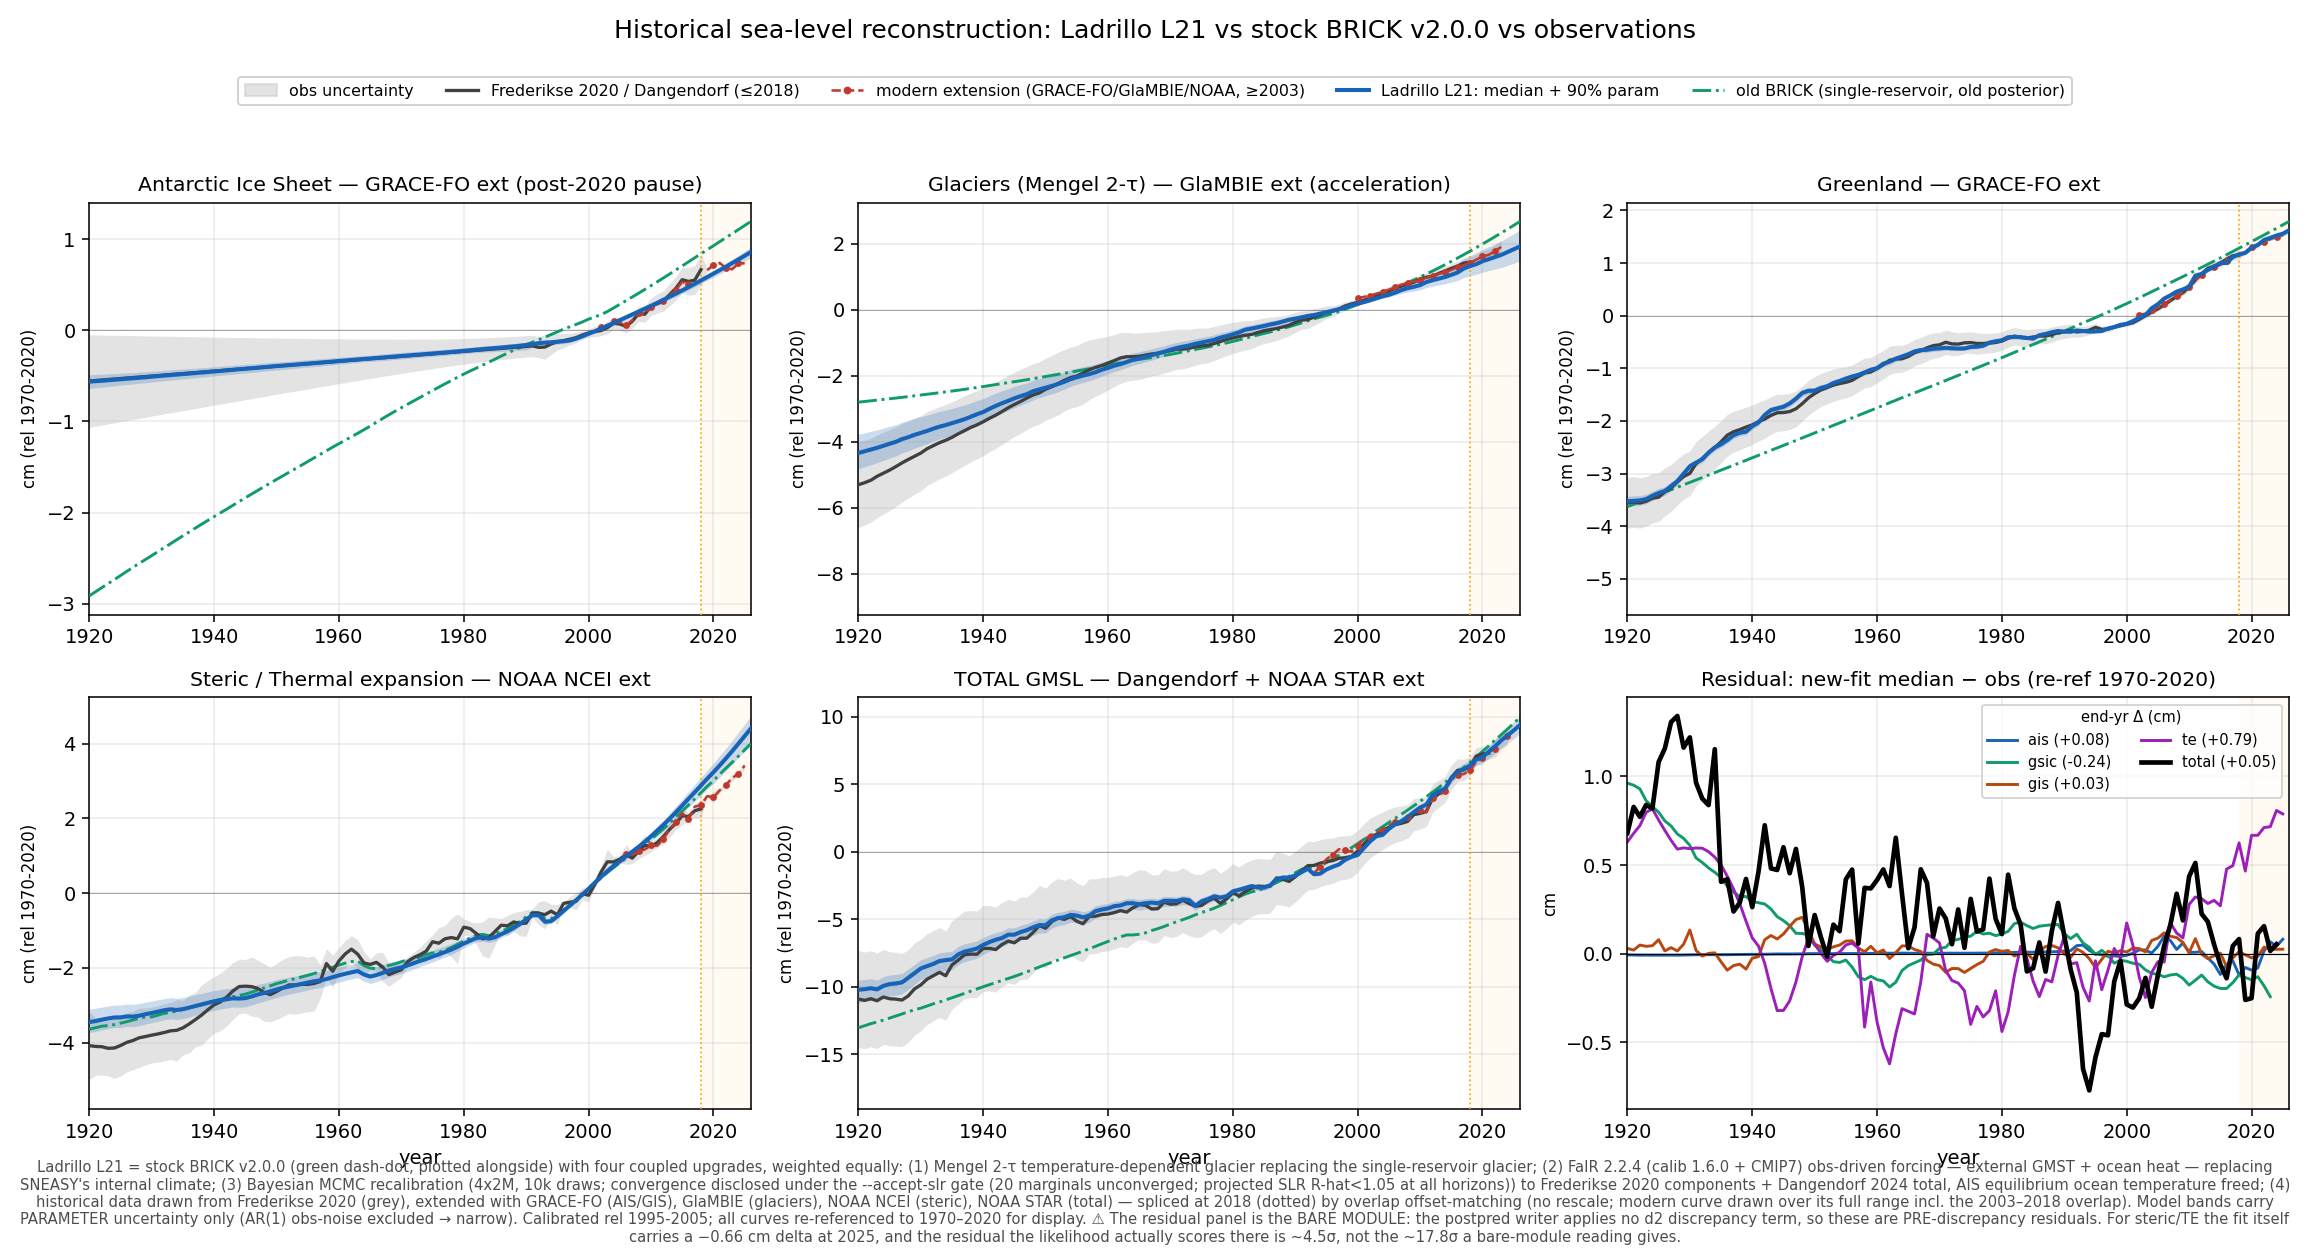
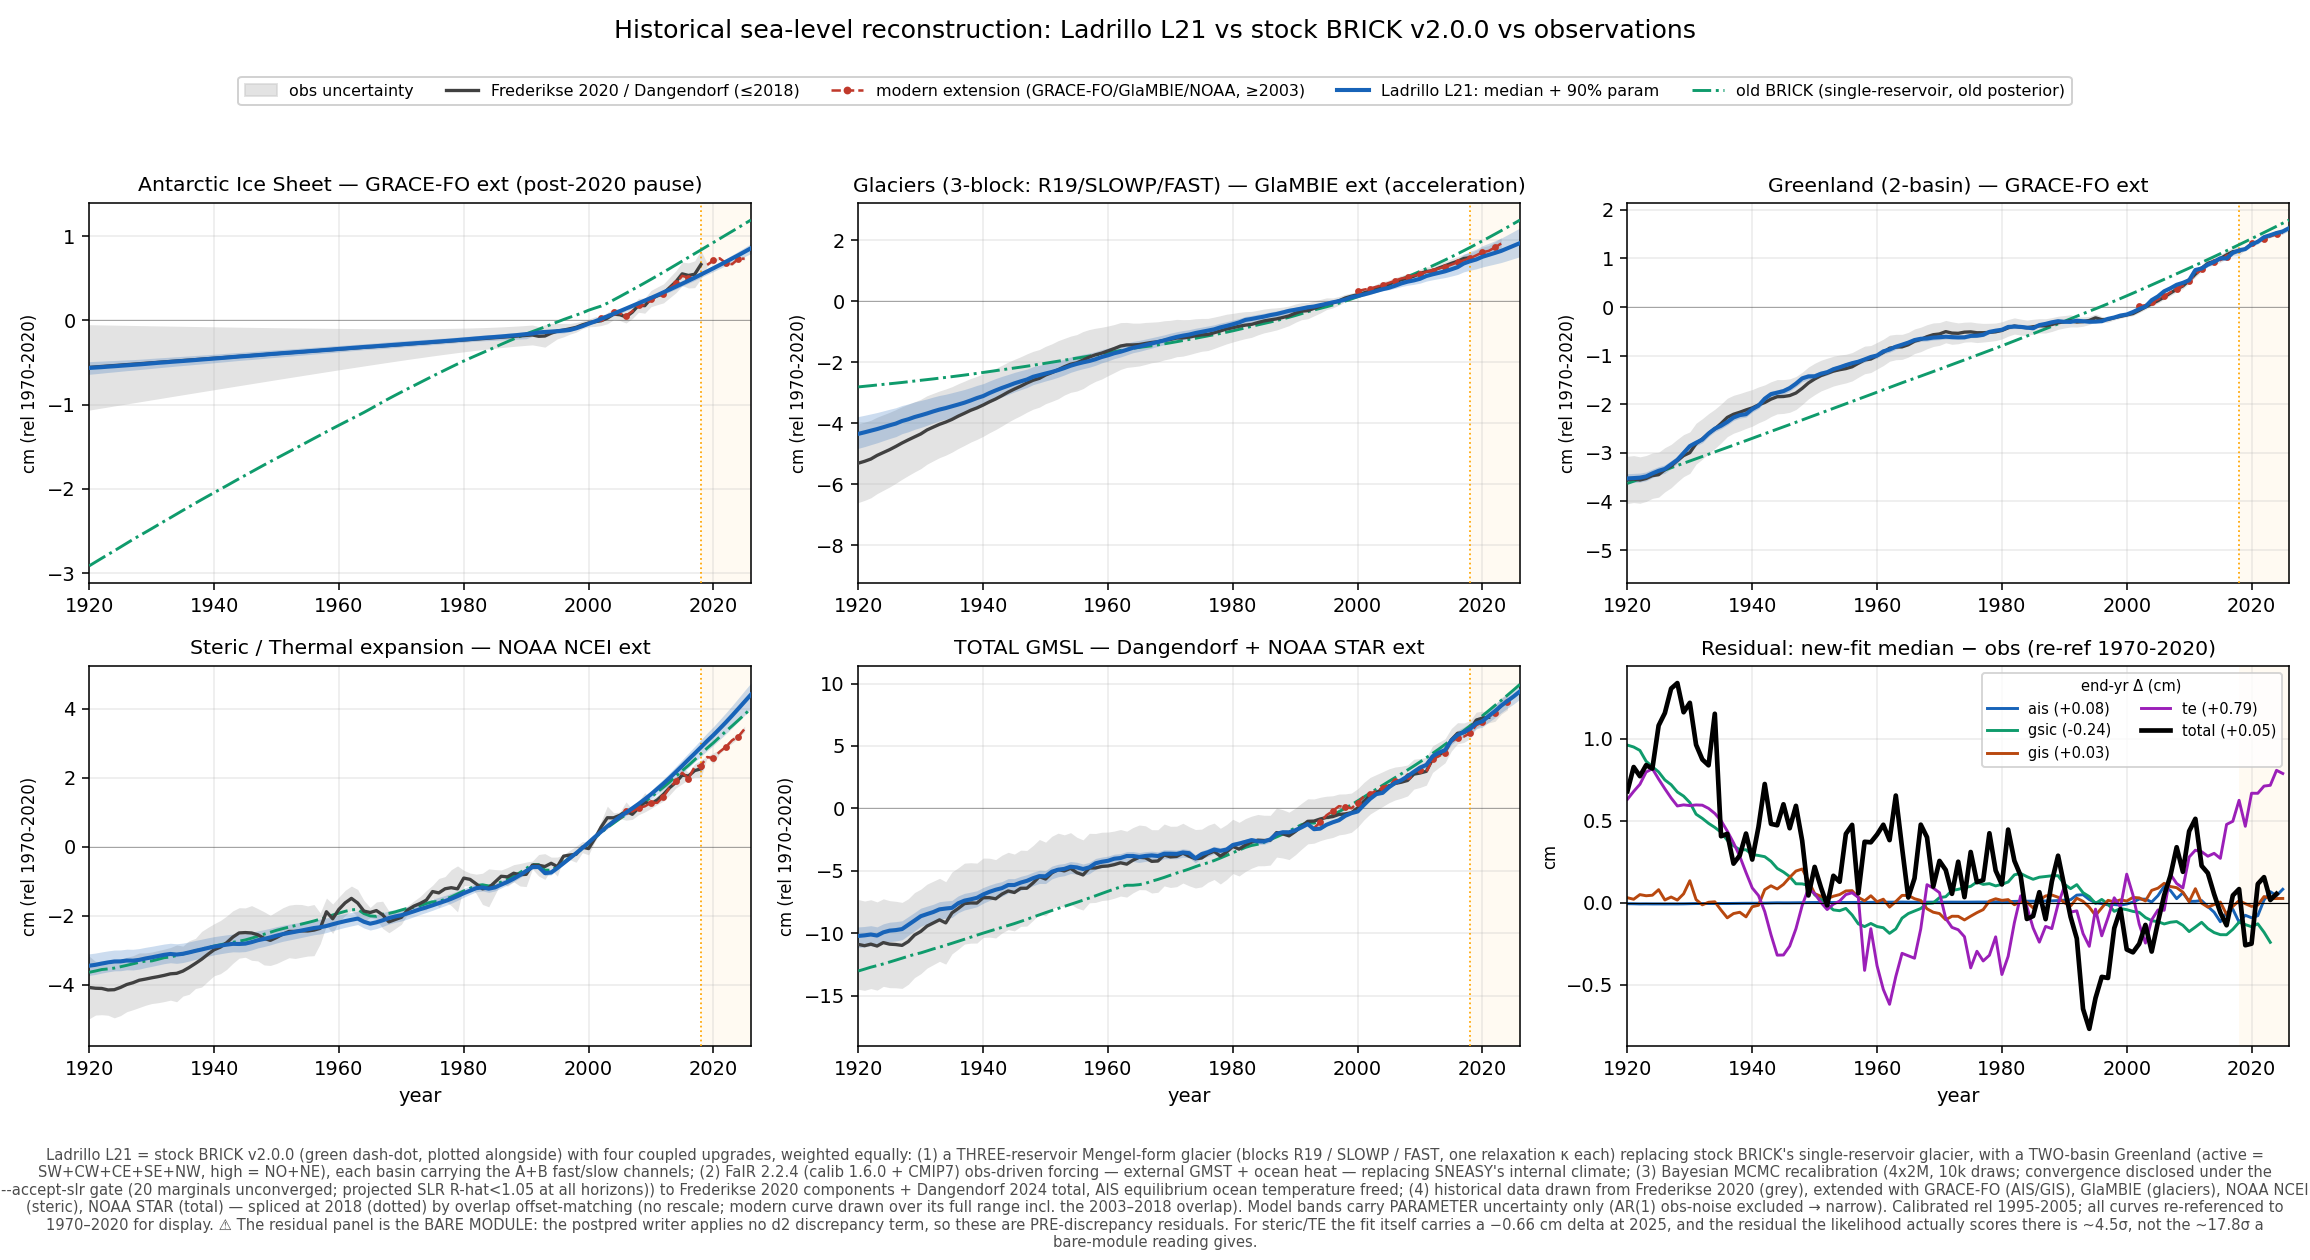
Correct the glacier and Greenland STRUCTURE labels: 3-reservoir GSIC, 2-basin GIS
Marcus asked whether the figure shows the 3-reservoir GSIC and 2-reservoir GIS. It does
-- but the figure SAID otherwise. Both the glacier panel title and the caption read
"Mengel 2-τ", which is a DIFFERENT model.

VERIFIED, not assumed:
  * The 2-τ form is ONE reservoir with TWO relaxation timescales -- params
    (a, b, T_off, f, tau_f, tau_s), per d0_glacier_shootout.py. extC replaced it;
    build_overdispersed_starts_extc.py calls the 2-τ layout "the stale 2-tau 39-col file".
  * L21's own posterior carries gic_{a,b,T_off,log10_kappa}_{R19,SLOWP,FAST} -- THREE
    blocks, ONE relaxation kappa each -- and no tau_f/tau_s. BLOCKS = ["R19","SLOWP","FAST"]
    in calibrate_mcmc_ext.jl:182.
  * GIS: L21 runs --gis-basins2 = the TWO-basin configuration, active (SW+CW+CE+SE+NW) +
    high (NO+NE), each basin carrying the A+B fast/slow channels.

So the panels now read "Glaciers (3-block: R19/SLOWP/FAST)" and "Greenland (2-basin)", and
the caption states both structures. Like the calibration provenance fixed in the previous
commit, these are PER-ARM entries in PROV -- --tag=ext keeps the 2-τ description, which is
correct for that 2026-06 vintage -- so a caption cannot again describe an arm it was not
written for.

Also widened the bottom margin: the caption grew with the structure text and was
overlapping the x-axis labels.

⚠ THE SAME STALE LABEL SURVIVES IN TWO OTHER SCRIPTS I was not asked to regenerate:
[…]

diff --git a/python/plot_postpred_components_ext.py b/python/plot_postpred_components_ext.py
@@ -64,12 +64,27 @@ OUT  = os.path.join(REPO, f"outputs/postpred_{TAG}_components.png")
 ## under an L21 figure until 2026-08-30. Verified for L21: chains are
 ## chain_L21_seed{2026..2029}_n2000000 (4 x 2M) and the subsample is 10,000 draws.
 PROV = {
+    ## ⚠ GLACIER AND GIS STRUCTURE ARE PER-ARM AND WERE MISLABELLED UNTIL 2026-08-30.
+    ## The panel title and caption said "Mengel 2-τ" under an L21 figure. The 2-τ form is
+    ## ONE reservoir with two relaxation timescales (params a, b, T_off, f, tau_f, tau_s --
+    ## see d0_glacier_shootout.py); extC REPLACED it (build_overdispersed_starts_extc.py
+    ## calls the 2-τ layout "the stale 2-tau 39-col file"). L21's posterior carries
+    ## gic_{a,b,T_off,log10_kappa}_{R19,SLOWP,FAST} -- THREE blocks with ONE relaxation
+    ## kappa each -- and no tau_f/tau_s. Verified from the subsample's own columns.
     "L21": dict(model="Ladrillo L21", calib="calib 1.6.0 + CMIP7",
                 chains="4x2M, 10k draws",
                 conv="convergence disclosed under the --accept-slr gate (20 marginals "
-                     "unconverged; projected SLR R-hat<1.05 at all horizons)"),
+                     "unconverged; projected SLR R-hat<1.05 at all horizons)",
+                glacier="THREE-reservoir Mengel-form glacier (blocks R19 / SLOWP / FAST, "
+                        "one relaxation κ each)",
+                gis="TWO-basin Greenland (active = SW+CW+CE+SE+NW, high = NO+NE), each "
+                    "basin carrying the A+B fast/slow channels",
+                gpanel="Glaciers (3-block: R19/SLOWP/FAST)", gispanel="Greenland (2-basin)"),
     "ext": dict(model="BRICK-Mengel (2026-06 'ext' fit)", calib="calib 1.4.5 (Smith)",
-                chains="4x500k, 10k draws", conv="27/28 R-hat<1.05"),
+                chains="4x500k, 10k draws", conv="27/28 R-hat<1.05",
+                glacier="Mengel 2-τ glacier (single reservoir, fast+slow relaxation), as "
+                        "labelled at that vintage",
+                gis="Greenland A+B", gpanel="Glaciers (Mengel 2-τ)", gispanel="Greenland"),
 }
 P = PROV.get(TAG)
 if P is None:
@@ -84,8 +99,8 @@ FRED_C, MODERN_C, MENGEL_C, OLD_C = "0.25", "#c0392b", "#1763b8", "#0f9b6c"
 OBSCOL = {"ais": "ais", "gsic": "gsic", "gis": "gis", "te": "steric", "total": "dang"}
 SRCLAB = {"ais": "GRACE-FO", "gsic": "GlaMBIE", "gis": "GRACE-FO", "te": "NOAA NCEI", "total": "NOAA STAR"}
 panels = [("ais",   "Antarctic Ice Sheet — GRACE-FO ext (post-2020 pause)"),
-          ("gsic",  "Glaciers (Mengel 2-τ) — GlaMBIE ext (acceleration)"),
-          ("gis",   "Greenland — GRACE-FO ext"),
+          ("gsic",  f"{P['gpanel']} — GlaMBIE ext (acceleration)"),
+          ("gis",   f"{P['gispanel']} — GRACE-FO ext"),
           ("te",    "Steric / Thermal expansion — NOAA NCEI ext"),
           ("total", "TOTAL GMSL — Dangendorf + NOAA STAR ext")]
 
@@ -172,9 +187,10 @@ fig.suptitle(f"Historical sea-level reconstruction: Ladrillo {TAG} vs stock BRIC
 # Audience = Tony Wong (BRICK author): present the four changes since stock BRICK
 # v2.0.0 (green dash-dot) EVENLY, not headlining the obs extension. FaIR is the
 # v2.2.4 MODEL with the v1.4.5 Smith calibration dataset (NOT "FaIR v1.4.5").
-fig.text(0.5, 0.012,
+fig.text(0.5, 0.008,
          f"{P['model']} = stock BRICK v2.0.0 (green dash-dot, plotted alongside) with four coupled upgrades, "
-         "weighted equally: (1) Mengel 2-τ temperature-dependent glacier replacing the single-reservoir glacier; "
+         f"weighted equally: (1) a {P['glacier']} replacing stock BRICK's single-reservoir glacier, with a "
+         f"{P['gis']}; "
          f"(2) FaIR 2.2.4 ({P['calib']}) obs-driven forcing — external GMST + ocean heat — replacing "
          f"SNEASY's internal climate; (3) Bayesian MCMC recalibration ({P['chains']}; {P['conv']}) to Frederikse "
          "2020 components + Dangendorf 2024 total, AIS equilibrium ocean temperature freed; (4) historical data drawn "
@@ -186,6 +202,8 @@ fig.text(0.5, 0.012,
          f"PRE-discrepancy residuals. For steric/TE the fit itself carries a −0.66 cm delta at 2025, and the residual "
          f"the likelihood actually scores there is ~4.5σ, not the ~17.8σ a bare-module reading gives.",
          ha="center", va="bottom", fontsize=7.6, color="0.3", wrap=True)
-fig.tight_layout(rect=[0, 0.055, 1, 0.915])
+## bottom margin sized for the CAPTION, which grew when the per-arm structure text was
+## added -- at 0.055 it overlapped the x-axis labels.
+fig.tight_layout(rect=[0, 0.105, 1, 0.915])
 fig.savefig(OUT, dpi=140)
 print(f"[wrote {OUT}]")
